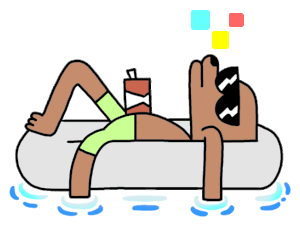
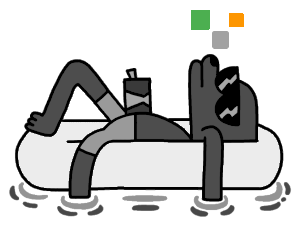
styles updated, add some functionality

Changed region(s): [[0.03, 0.031, 0.99, 0.9602]]

diff --git a/public/main.js b/public/main.js
@@ -40,7 +40,14 @@ function animateOpacity(el, min, max) {
  * @param {int} id
  */
 function ajaxLoadDescription(id) {
+    var switcher = document.getElementById('objectsAccess');
     var container = document.getElementById('objectDescription');
+
+    if (!switcher || !switcher.checked) {
+        container.innerHTML = '<span class="error">[информация об объекте не загружена]:</span><br>Возможность получить информацию об объектах отключена пользователем. Необходимо разрешить получение информации об объектах.';
+        return;
+    }
+    
     container.innerHTML = '<center>... [LOADING INFO] ...</canter>';
     container.style.opacity = '0.5';
 
@@ -62,6 +69,7 @@ function ajaxLoadDescription(id) {
     request.send(formData);
 }
 
+var animate = 'off';
 
 /**
  * Render canvas
@@ -102,38 +110,40 @@ function draw(cid) {
             ctx[cid].fillRect(i * 15, 75, 10, 10);
         }
 
-        let randY = Math.round(Math.random() * 6);
-        let randC = Math.round(Math.random() * 10);
-        if (randC == 1) {
-            ctx[cid].fillStyle = '#2A6D1D';
-        } else if (randC == 2) {
-            ctx[cid].fillStyle = '#A35400';
-        } else {
-            ctx[cid].fillStyle = '#64FF4B';
-        }
-        if (randY > 4) {
-            ctx[cid].fillRect(xOffset[cid], 0, 10, 10);
-            ctx[cid].fillStyle = '#64FF4B';
-        }
-        if (randY == 5) {
-            ctx[cid].fillRect(xOffset[cid], 15, 10, 10);
-            ctx[cid].fillStyle = '#64FF4B';
-        }
-        if (randY < 2) {
-            ctx[cid].fillRect(xOffset[cid], 30, 10, 10);
-            ctx[cid].fillStyle = '#64FF4B';
-        }
-        if (randY == 3) {
-            ctx[cid].fillRect(xOffset[cid], 45, 10, 10);
-            ctx[cid].fillStyle = '#64FF4B';
-        }
-        if (randY == 0) {
-            ctx[cid].fillRect(xOffset[cid], 60, 10, 10);
-            ctx[cid].fillStyle = '#64FF4B';
-        }
-        if (randY == 6) {
-            ctx[cid].fillRect(xOffset[cid], 75, 10, 10);
-            ctx[cid].fillStyle = '#64FF4B';
+        if (animate == 'on') {
+            let randY = Math.round(Math.random() * 6);
+            let randC = Math.round(Math.random() * 10);
+            if (randC == 1) {
+                ctx[cid].fillStyle = '#2A6D1D';
+            } else if (randC == 2) {
+                ctx[cid].fillStyle = '#A35400';
+            } else {
+                ctx[cid].fillStyle = '#64FF4B';
+            }
+            if (randY > 4) {
+                ctx[cid].fillRect(xOffset[cid], 0, 10, 10);
+                ctx[cid].fillStyle = '#64FF4B';
+            }
+            if (randY == 5) {
+                ctx[cid].fillRect(xOffset[cid], 15, 10, 10);
+                ctx[cid].fillStyle = '#64FF4B';
+            }
+            if (randY < 2) {
+                ctx[cid].fillRect(xOffset[cid], 30, 10, 10);
+                ctx[cid].fillStyle = '#64FF4B';
+            }
+            if (randY == 3) {
+                ctx[cid].fillRect(xOffset[cid], 45, 10, 10);
+                ctx[cid].fillStyle = '#64FF4B';
+            }
+            if (randY == 0) {
+                ctx[cid].fillRect(xOffset[cid], 60, 10, 10);
+                ctx[cid].fillStyle = '#64FF4B';
+            }
+            if (randY == 6) {
+                ctx[cid].fillRect(xOffset[cid], 75, 10, 10);
+                ctx[cid].fillStyle = '#64FF4B';
+            }
         }
 
         draw(cid);
@@ -170,6 +180,7 @@ function start(cid, isStarted) {
             start('canvas1', true);
             start('canvas2', true);
             start('canvas3', true);
+            start('canvas4', true);
         }, 50);
     });
 }
@@ -182,6 +193,9 @@ document.addEventListener('DOMContentLoaded', function () {
     setTimeout(function () {
         start('canvas3', false);
     }, Math.round(Math.random() * (4000 - 2000) + 2000));
+    setTimeout(function () {
+        start('canvas4', false);
+    }, Math.round(Math.random() * (6000 - 3000) + 3000));
 
     let t1 = document.getElementById('t1');
     let t2 = document.getElementById('t2');
@@ -190,9 +204,20 @@ document.addEventListener('DOMContentLoaded', function () {
     aopacity['t2'] = parseFloat(window.getComputedStyle(t2).getPropertyValue("opacity"));
     aopacity['t3'] = parseFloat(window.getComputedStyle(t3).getPropertyValue("opacity"));
     setInterval(function () {
+        if (animate == 'off') {
+            return;
+        }
         animateOpacity(t1, 0.2, 0.5);
         animateOpacity(t2, 0.05, 0.4);
         animateOpacity(t3, 0, 0.2);
     }, 200);
     
 });
+
+function switchAnimation(el) {
+    if (el.checked) {
+        animate = 'on';
+    } else {
+        animate = 'off';
+    }
+}

diff --git a/public/main.css b/public/main.css
@@ -342,6 +342,18 @@ footer span {
     padding: 20px 20px 15px 20px;
 }
 
+.canvas-container .rack-left {
+    position: absolute;
+    left: -2px;
+    margin-top:-3px;
+}
+
+.canvas-container .rack-right {
+    position: absolute;
+    right: -3px;
+    margin-top:-3px;
+}
+
 .code {
     border: 2px dotted rgba(255, 255, 255, 0.5);
     padding: 20px;
@@ -522,12 +534,101 @@ table.list-table .btn {
     color: white;
 }
 
+.success {
+    color:rgb(0, 175, 0);
+}
+
+.error {
+    color:rgb(220, 0, 0);
+}
+
 .align-center {
     text-align: center;
 }
 
 .invisible {
     display: none;
+}
+
+.switch-panel table {
+    background-color: rgba(255, 255, 255, 0.1);
+    border-left: 3px solid #000;
+    border-right: 3px solid #000;
+}
+
+.switch-panel table td {
+    color: #fff;
+}
+
+.switcher {
+    width: 77px;
+    height: 20px;
+    padding: 5px 10px;
+    background: rgba(0, 0, 0, 0.75);
+    background: repeating-radial-gradient(circle at 50% 50%, rgba(200, 200, 200, .2) 0%, rgba(200, 200, 200, .2) 2%, transparent 2%, transparent 3%, rgba(200, 200, 200, .2) 3%, transparent 3%), conic-gradient(white 0%, silver 10%, #efefef 35%, silver 45%, black 60%, silver 70%, white 80%, silver 95%, white 100%);
+    box-shadow: 0px 0 5px 1px #ffffff;
+}
+
+.switcher input[type="checkbox"] {
+    display: none;
+}
+
+.switcher label {
+    display: inline-block;
+    position: relative;
+    width: 40px;
+    height: 20px;
+    background: #cf8b14;
+    box-shadow: 2px 2px 2px 0px rgba(0, 0, 0, 0.2) inset;
+    transition: background 1.8s;
+    cursor: pointer;
+}
+
+.switcher label:before {
+    position: absolute;
+    top: -2px;
+    width: 20px;
+    height: 20px;
+    content: "";
+    background: #cf8b14;
+    border: 2px solid rgb(0 0 0 / 50%);
+    box-shadow: 0 0 0 1px #000000, inset 1px 3px 6px rgb(0 0 0 / 30%);
+    transition: background 1.8s;
+}
+
+.switcher label:before {
+    left: 58px;
+    background: #cec2c0;
+}
+
+.switcher input[type="checkbox"]:checked + label {
+    background: linear-gradient(180deg, rgba(0, 175, 0, 1) 15%, rgba(19, 124, 0, 0.85) 60%, rgba(22, 141, 0, 0.72) 100%);
+}
+
+.switcher .handle {
+    position: absolute;
+    top: -2px;
+    left: -5px;
+    width: 30px;
+    height: 22px;
+    background: rgba(85, 85, 85, 1);
+    background: linear-gradient(180deg, rgba(85, 85, 85, 1) 2%, rgba(0, 0, 0, 0.8547794117647058) 98%);
+    border: 1px solid #2e2e2e;
+    border-radius: 3px;
+    box-shadow: 2px 2px 2px 0 rgba(0, 0, 0, 0.25);
+    transition: left .3s;
+}
+
+.switcher input[type="checkbox"]:checked + label > .handle {
+    left: calc(100% - 25px);
+}
+
+.switcher input[type="checkbox"]:checked + label:after {
+    background: #d1cac9;
+}
+
+.switcher input[type="checkbox"]:checked + label:before {
+    background: linear-gradient(180deg, rgba(0, 175, 0, 1) 15%, rgba(18, 117, 0, 0.72) 80%, rgba(0, 175, 0, 1) 100%);
 }
 
 @media (min-width: 1400px) {

diff --git a/pages/index.php b/pages/index.php
@@ -55,15 +55,6 @@ if (empty($errors['system'])) {
                 <span id="t5">GIMP</span>
             </div>
             <div class="main">
-                <?php if (!empty($_SESSION['auth']) && empty($errors['system'])) { ?>
-                    <div class="container">
-                        <form method="POST">
-                            <div class="align-center">
-                                <a class="btn" href="./admin">Перейти в административную панель</a>
-                            </div>
-                        </form>
-                    </div>
-                <?php } ?>
                 <?php if (empty($_SESSION['auth']) && empty($errors['system'])) { ?>
                     <div id="authorization" class="container">
                         <form method="POST">
@@ -136,6 +127,55 @@ if (empty($errors['system'])) {
                         <?php } ?>
                     </div>
                 </div>
+                <?php if (!empty($_SESSION['auth']) && empty($errors['system'])) { ?>
+                    <div class="container">
+                        <table>
+                            <tr>
+                                <td>
+                                    Административная панель
+                                </td>
+                                <td>
+                                <a class="btn" href="./admin">Открыть</a>
+                                </td>
+                            </tr>
+                        </table>
+                        <div class="switch-panel">
+                            <table>
+                                <tr>
+                                    <td>
+                                        Включить rack
+                                    </td>
+                                    <td>
+                                    <div class="switcher">
+                                        <input onchange="switchAnimation(this);" type="checkbox" id="lamps" />
+                                        <label for="lamps">
+                                            <div class="handle"></div>
+                                        </label>
+                                    </div>
+                                    </td>
+                                </tr>
+                                <tr>
+                                    <td>
+                                        Разрешить получение информации об объектах
+                                    </td>
+                                    <td>
+                                    <div class="switcher">
+                                        <input type="checkbox" id="objectsAccess" />
+                                        <label for="objectsAccess">
+                                            <div class="handle"></div>
+                                        </label>
+                                    </div>
+                                    </td>
+                                </tr>
+                            </table>
+                        </div>
+                    </div>
+                    <div class="container canvas-container">
+                        <img class="rack-left" src="/public/rack-left.png">
+                        <img class="rack-right" src="/public/rack-right.png">
+                        <canvas id="canvas1"></canvas>
+                    </div>
+                <?php } ?>
                 <div id="projectDescription" class="container">
                     <h2>Задача проекта:</h2>
                     <br>&nbsp;&nbsp;&nbsp;&nbsp;Привести пример кода с использованием PHP8, MYSQL, JS, HTML, CSS
@@ -177,7 +217,9 @@ if (empty($errors['system'])) {
                     <br>
                 </div>
                 <div class="container canvas-container">
-                    <canvas id="canvas1"></canvas>
+                    <img class="rack-left" src="/public/rack-left.png">
+                    <img class="rack-right" src="/public/rack-right.png">
+                    <canvas id="canvas2"></canvas>
                 </div>
                 <?php if (empty($errors['system'])) { ?>
                     <div id="dataObjectsExample" class="container">
@@ -197,7 +239,9 @@ if (empty($errors['system'])) {
                         </div>
                     </div>
                     <div class="container canvas-container">
-                        <canvas id="canvas2"></canvas>
+                        <img class="rack-left" src="/public/rack-left.png">
+                        <img class="rack-right" src="/public/rack-right.png">
+                        <canvas id="canvas3"></canvas>
                     </div>
                     <div id="codeExample" class="container factory-check">
                         <h3>Пример реализации ООП:</h3>
@@ -273,7 +317,9 @@ if (empty($errors['system'])) {
                     </div>
                 <?php } ?>
                     <div class="container canvas-container">
-                        <canvas id="canvas3"></canvas>
+                        <img class="rack-left" src="/public/rack-left.png">
+                        <img class="rack-right" src="/public/rack-right.png">
+                        <canvas id="canvas4"></canvas>
                     </div>
             </div>
             <footer>

diff --git a/api/api.php b/api/api.php
@@ -11,7 +11,7 @@ $response = [
 ];
 
 if (!checkApiAuthorization()) {
-    $response['description'] = 'Вы не авторизованы для получения данных об описании объектов';
+    $response['description'] = '<span class="error">[информация об объекте не загружена]:</span>Вы не авторизованы для получения данных об описании объектов';
     $response['errors'][] = 'access denied';
     echo json_encode($response);
     exit;
@@ -32,7 +32,7 @@ $dbq->execute();
 $object = $dbq->fetch();
 if (!empty($object)) {
     $response['success'] = true;
-    $response['description'] = $object['description'];
+    $response['description'] = '<span class="success">[информация об объекте загружена]:</span>' . $object['description'];
     echo json_encode($response);
     exit;
 } else {
